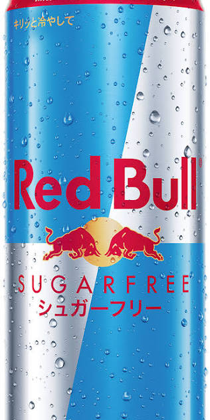
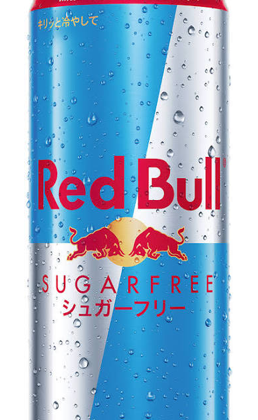
Normalize Red Bull image scale

diff --git a/customer.js b/customer.js
@@ -347,8 +347,8 @@
       "水": "./assets/crystal-geyser.png",
       "ペリエ": "./assets/perrier.png",
       "レッドブル（ノーマル）": "./assets/red-bull-original.png?v=2026100101",
-      "レッドブル（ノンシュガー）": "./assets/red-bull-sugarfree.png?v=2026100101",
-      "レッドブル（パープル）": "./assets/red-bull-purple.png?v=2026100101",
+      "レッドブル（ノンシュガー）": "./assets/red-bull-sugarfree.png?v=2026100501",
+      "レッドブル（パープル）": "./assets/red-bull-purple.png?v=2026100501",
       "コロナビール": "./assets/corona-extra.png?v=2026100101",
       "ハイネケン": "./assets/heineken.png?v=2026100101",
       "PUNK IPA": "./assets/punk-ipa.png?v=2026100101",

diff --git a/customer.html b/customer.html
@@ -8,7 +8,7 @@
     <link rel="stylesheet" href="./customer.css?v=2026100301">
     <script defer src="https://unpkg.com/@supabase/supabase-js@2"></script>
     <script defer src="./customer-i18n.js?v=2026100301"></script>
-    <script defer src="./customer.js?v=2026100403"></script>
+    <script defer src="./customer.js?v=2026100501"></script>
   </head>
   <body>
     <header class="customer-header">
